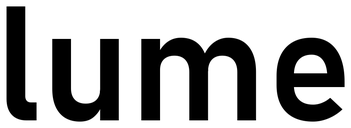
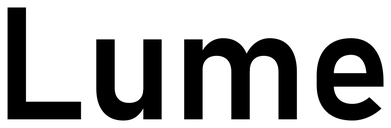
2.0 (dev): wordmark is Lume with a capital L

diff --git a/index.html b/index.html
@@ -197,7 +197,7 @@
         .logo-img { height: 28px; width: auto; background: #fff; border-radius: 6px; padding: 3px 8px; margin-right: 6px; vertical-align: middle; flex-shrink: 0; }   /* fundo branco: o texto do logo da NVIDIA e preto */
         #sidebar h2.brand { display: flex; align-items: center; margin: 0 0 6px; }
         .brand-mark { height: 38px; width: auto; }
-        .brand-text { height: 26px; width: auto; margin: 0 0 0 10px !important; }   /* o texto "lume" e preto no PNG transparente: o filtro de icones deixa branco nos temas escuros */
+        .brand-text { height: 26px; width: auto; margin: 0 0 0 10px !important; }   /* o texto "Lume" e preto no PNG transparente: o filtro de icones deixa branco nos temas escuros */
         #guest-chip { display: flex; align-items: center; gap: 8px; font-size: 0.8em; padding: 6px 10px; margin-bottom: 8px; border: 1px solid var(--border-color); border-radius: 8px; }
         #guest-chip button { margin-left: auto; background: none; border: 1px solid var(--border-color); color: var(--text-muted); border-radius: 6px; padding: 2px 8px; cursor: pointer; font-size: 0.95em; }
         #guest-banner { display: none; align-items: center; justify-content: center; gap: 12px; padding: 8px 14px; background: #9a6700; color: #fff; font-size: 0.9em; z-index: 600; flex-shrink: 0; flex-wrap: wrap; text-align: center; }

diff --git a/make_icons.py b/make_icons.py
@@ -1,7 +1,7 @@
 """Desenha a logo do Lume e gera todos os icones (nao precisa de nenhuma imagem de origem):
 
     icons/lume-mark.png    a marca (hexagono aberto em "catavento" com o centro aceso), fundo transparente
-    icons/lume-text.png    a palavra "lume" em preto, fundo transparente (o tema deixa branca nos escuros)
+    icons/lume-text.png    a palavra "Lume" em preto, fundo transparente (o tema deixa branca nos escuros)
     icons/lume.png         icone do app (janela, .exe, bandeja), fundo transparente
     icons/lume-mobile.png  icone do celular / aba do navegador: marca branca menor sobre um gradiente "mesh" distorcido
 
@@ -64,7 +64,7 @@ def crop_pad(im, pad=0.04, square=False):
     out = Image.new("RGBA", (cw + 2 * p, ch + 2 * p), (0, 0, 0, 0)); out.paste(im, ((cw - w) // 2 + p, (ch - h) // 2 + p)); return out
 
 
-def wordmark(text="lume", height=128):
+def wordmark(text="Lume", height=128):
     font = ImageFont.truetype("C:/Windows/Fonts/bahnschrift.ttf", 400)
     try: font.set_variation_by_name("SemiBold")
     except Exception: pass

diff --git a/CHANGELOG.md b/CHANGELOG.md
@@ -18,7 +18,7 @@ Tudo que for pedido até o "push tudo isso aí" entra aqui. Já está dentro: o 
 - **Atualizadores automáticos**: os modelos instalados podem se atualizar sozinhos (uma vez por semana, com o app aberto) e o app pode **baixar e instalar as próprias atualizações** em segundo plano, pedindo só a confirmação do reinício.
 - **Tailscale Funnel**: botão em Configurações → Servidor que publica o app num endereço fixo `https://PC.rede.ts.net` (precisa do Tailscale conectado e do Funnel ligado na conta). Continua exigindo a senha pela internet, e o Funnel é desligado quando o app fecha.
 - **Ícone na bandeja do sistema** (opção na tela de boas-vindas e em Configurações → Aplicativo): fechar a janela só a esconde; o ícone ao lado do relógio abre de novo ou sai. Com "iniciar com o Windows" o app abre já escondido na bandeja.
-- **Novo nome: Lume**, com logo própria (um hexágono aberto em catavento com o centro aceso, degradê âmbar → rosa → violeta, inspirada na forma da logo do Qwen) e a palavra "lume". O app deixa de usar o nome e a marca do modelo Qwen, que continua na lista de modelos. Trocou: `Lume.exe`, a pasta de dados `%LOCALAPPDATA%\Lume` (a pasta `Qwen` antiga é renomeada sozinha, então conversas e configurações vêm junto), o log `lume.log` e as variáveis `LUME_DATA_DIR`, `LUME_PORT` e `LUME_CONSOLE` (as `QWEN_*` ainda funcionam). "Iniciar com o Windows" troca a entrada antiga `Qwen` pela `Lume` ao ser ligado de novo.
+- **Novo nome: Lume**, com logo própria (um hexágono aberto em catavento com o centro aceso, degradê âmbar → rosa → violeta, inspirada na forma da logo do Qwen) e a palavra "Lume". O app deixa de usar o nome e a marca do modelo Qwen, que continua na lista de modelos. Trocou: `Lume.exe`, a pasta de dados `%LOCALAPPDATA%\Lume` (a pasta `Qwen` antiga é renomeada sozinha, então conversas e configurações vêm junto), o log `lume.log` e as variáveis `LUME_DATA_DIR`, `LUME_PORT` e `LUME_CONSOLE` (as `QWEN_*` ainda funcionam). "Iniciar com o Windows" troca a entrada antiga `Qwen` pela `Lume` ao ser ligado de novo.
 - **Ícones**: o ícone do app (janela, `.exe`, bandeja) tem fundo transparente; o do celular e da aba do navegador usa a marca branca sobre um gradiente "líquido" distorcido; a tela de boas-vindas ganhou um gradiente animado que muda de forma. Tudo é gerado por `python make_icons.py`, que desenha a logo do zero.
 
 ## v1.9
